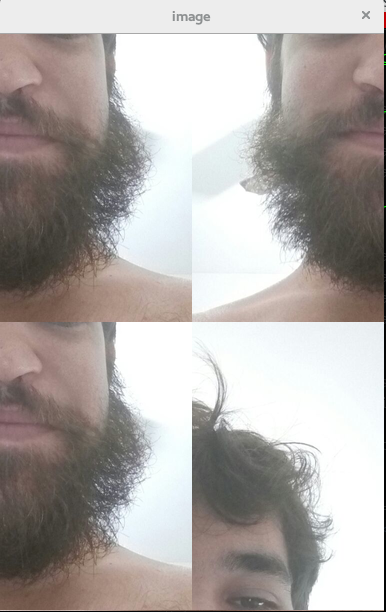
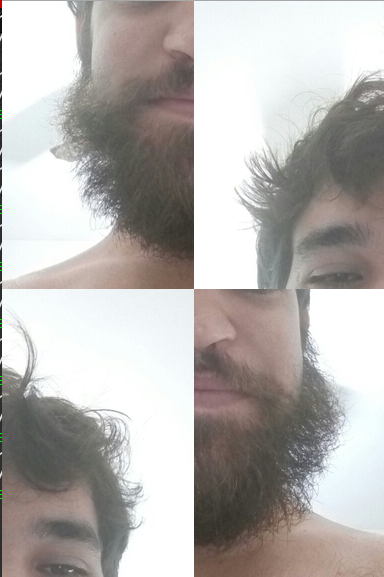
Correção segundo exercício

diff --git a/pdi/index.html b/pdi/index.html
@@ -116,47 +116,67 @@
         </section>
         <section id="exercicio2">
             <p style="text-align:justify">Para o <b>segundo exercício</b> é pedido que seja implementado um programa trocaregioes.cpp
-                que deverá trocar regiões da imagem, formando uma espécie de quebra-cabeças. O código-fonte da solução segue abaixo:</p>
+                que deverá trocar regiões da imagem aleatoriamente, formando uma espécie de quebra-cabeças. O código-fonte da solução segue abaixo:</p>
             <pre class="brush: cpp">
                 #include &ltiostream>
                 #include &ltcv.h>
                 #include &lthighgui.h>
-                #include &ltstdlib.h>
+                #include &stdlib.h>
 
                 using namespace cv;
                 using namespace std;
 
                 using namespace cv;
 
-                int main(int, char**) {
+                int main(int argc, char const *argv[]) {
 
                   Mat image = imread("barba_despenteada.png", CV_LOAD_IMAGE_COLOR);
                   Mat image1, image2, image3, image4;
 
+                  vector&ltMat> images;
+                  random_device rd;
+                  mt19937 g(rd());
+
                   int largura = image.rows;
                   int altura = image.cols;
-                  Mat nova_image(0,0, altura, largura);
-                  nova_image = image;
+                  Mat final_image(0,0, altura, largura);
+                  final_image = image.clone();
+
 
                   image1 = image(Rect(altura/2, largura/2, altura/2, largura/2));
+                  images.push_back(image1);
                   image2 = image(Rect(altura/2, 0, altura/2, largura/2));
+                  images.push_back(image2);
                   image3 = image(Rect(0, largura/2, altura/2, largura/2));
+                  images.push_back(image3);
                   image4 = image(Rect(0, 0, altura/2, largura/2));
+                  images.push_back(image4);
 
-                  image1.copyTo(nova_image(Rect(0, 0, altura/2, largura/2)));
-                  image2.copyTo(nova_image(Rect(altura/2, largura/2, altura/2, largura/2)));
-                  image3.copyTo(nova_image(Rect(altura/2, 0, altura/2, largura/2)));
-                  image4.copyTo(nova_image(Rect(0, largura/2, altura/2, largura/2)));
+                  shuffle(begin(images), end(images), g);
+                  for (int i=0; i<4; i++) {
+                      if (i==3) {
+                          images[3].copyTo(final_image(Rect(0, 0, altura/2, largura/2)));
+                      } else if (i==0) {
+                          images[0].copyTo(final_image(Rect(altura/2, largura/2, altura/2, largura/2)));
+                      } else if (i==1) {
+                          images[1].copyTo(final_image(Rect(altura/2, 0, altura/2, largura/2)));
+                      } else if (i==2) {
+                          images[2].copyTo(final_image(Rect(0, largura/2, altura/2, largura/2)));
+                      }
+                  }
 
-
-                  imshow("image", nova_image);
+                  imshow("image", final_image);
                   waitKey();
 
                   return EXIT_SUCCESS;
                 }
             </pre>
-            <p style="text-align:justify">A imagem de saída da solução segue abaixo:</p>
-            <center><img src="../images/puzzle.png"><br><br></center>
+            <p style="text-align:justify">Duas imagens resultantes do algoritmo acima podem ser vistas abaixo:</p>
+            <div class="images-exercicio2">
+                <img src="../images/puzzle.png" float="left" border="5">
+                <img src="../images/puzzl2.png" float="right" border="5">
+            </div>
+            <br><br>
         </section>
         <section id="exercicio3">
             <p style="text-align:justify">No <b>exercício três</b> indaga-se sobre as limitações de algoritmos de contagem de
